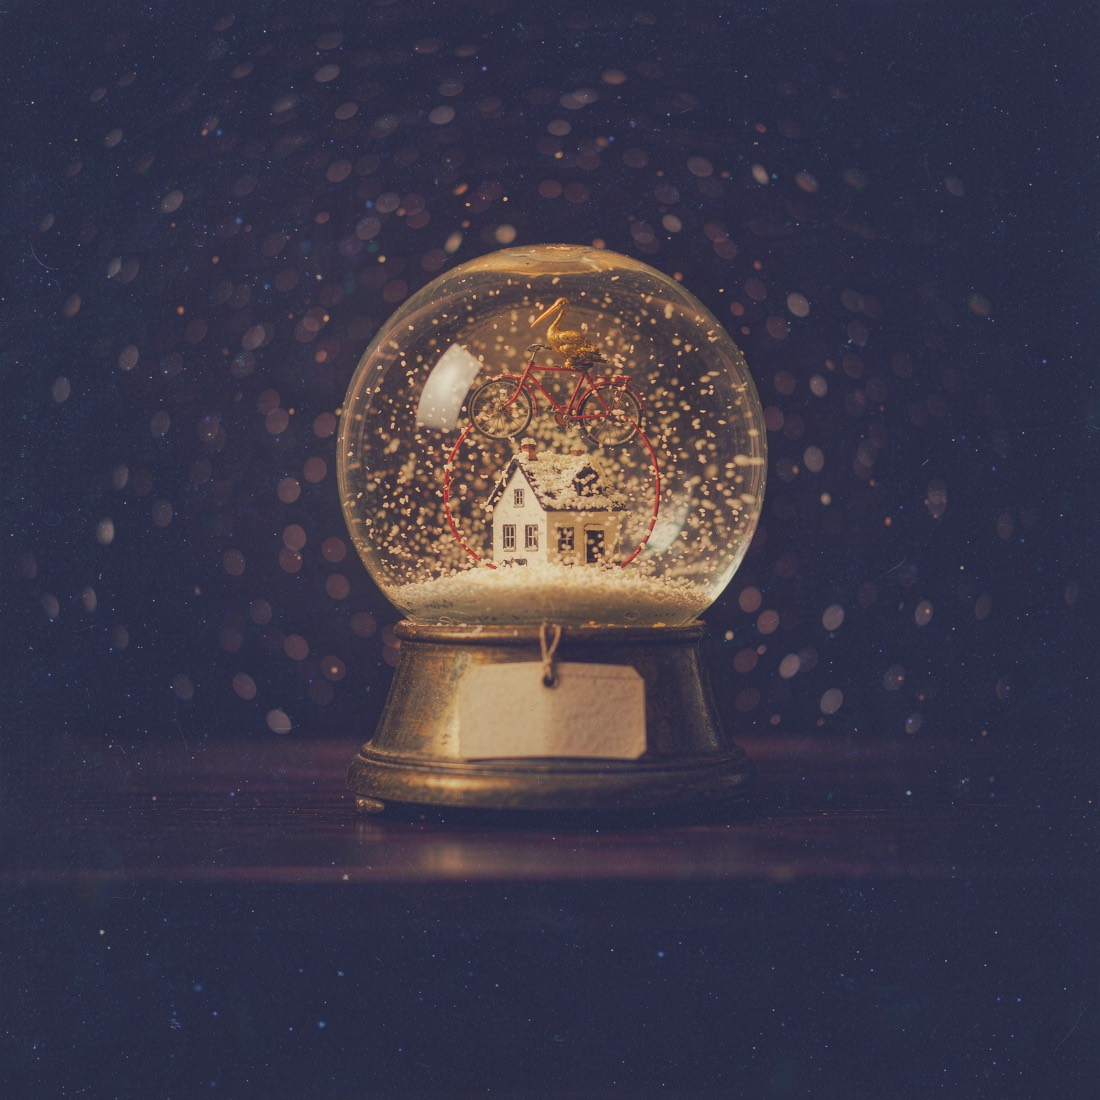
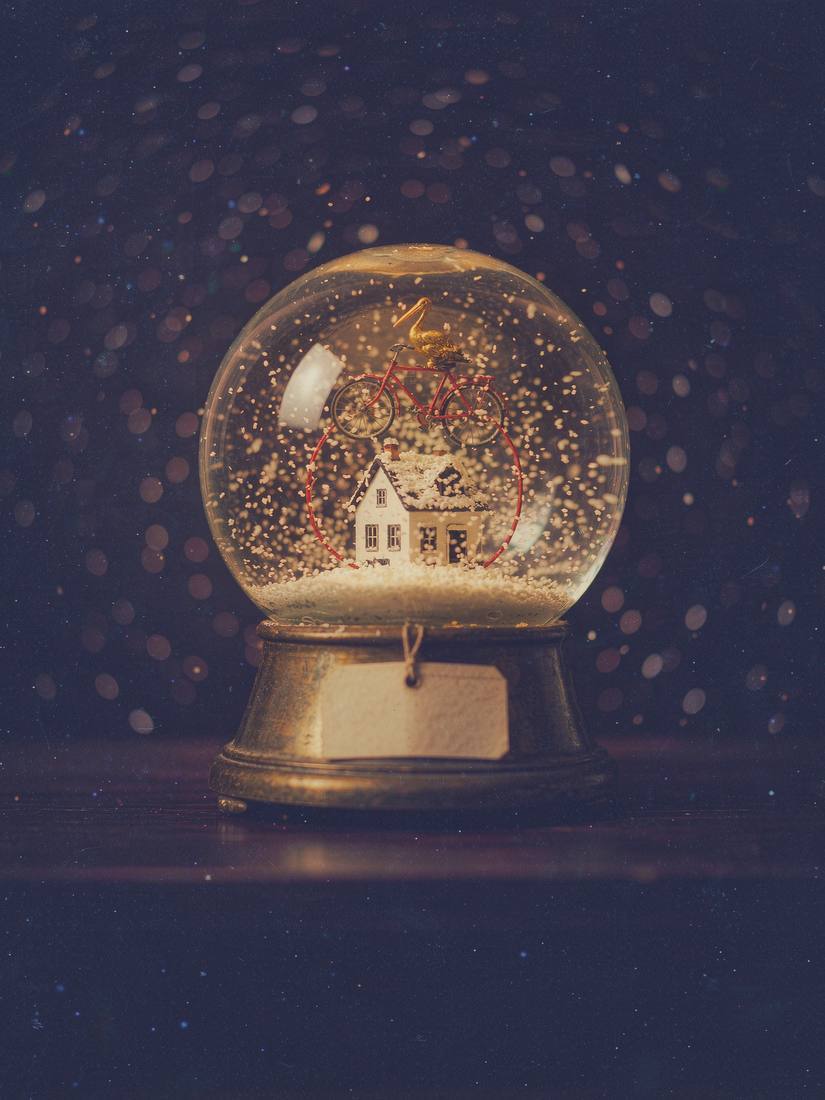
周邊：MK-14、MK-18 裁成直式，十二張統一 3:4
BR-09 是橫式 4:3、BR-13 是方形，十二張商品照裡只有這兩張不是直式，
在格線裡會拉出高低落差。兩張都裁成 825x1100，與其餘十張一致。

- MK-18 雪花球：方形置中裁，雪球完整不變，零損失
- MK-14 紙景：橫式裁 3:4。試過五個偏移，沒有能同時保住兩端的 ——
  牌子在左、車在右，直式必須切一邊。選偏左：保住整塊牌子
  （ENTRY PERMIT REQUIRED / BICYCLES DECLARED: 1 /
  PELICANS DECLARED: 0 是這張的笑點），代價是車只剩半個車輪，
  剛好守住「每張必有鵜鶘或紅色單車」那條規則

因為十二張現在同尺寸，.goods.start 這個原本只為了補橫式／方形圖的
align-items:start 補丁就沒有存在理由了，移掉，第二批跟第一批共用樣式。

商品描述同步：MK-14 那句「桌子旁邊停著那輛車」改成「只露出半個車輪」，
跟裁切後實際看到的對上。

diff --git a/series/merch.html b/series/merch.html
@@ -61,9 +61,6 @@
      彼此不知道對方存在 —— 故意不共用同一個 SVG。歪的、膠帶、歪章是刻意的。 */
   .goods { display:grid; gap:28px 24px;
     grid-template-columns:repeat(auto-fill,minmax(236px,1fr)); }
-  /* 第二批有橫式（紙景）與方形（雪花球）商品，格線要靠上對齊，
-     否則同一列會被最高的那張拉開，卡片底部留出大片空白 */
-  .goods.start { align-items:start; }
   .item { position:relative; margin:0; padding:14px 15px 13px;
     background:#FBF9F3; border:1px solid #DED7C5;
     box-shadow:1px 2px 0 rgba(43,45,51,.05); }
@@ -192,7 +189,7 @@
   is the thing this page is not for. A bird drawn slightly wrong by somebody who saw it once
   is evidence. A bird reproduced exactly, from a document, is a print run.</p>
 </div>
-<div class="goods start" id="goods2"></div>
+<div class="goods" id="goods2"></div>
 <div class="shopnote">
   <p><b>Same terms as the first four.</b> You pay first, then it is made. Each maker needs a
   minimum before the workshop will start, and if that minimum is not reached in
@@ -263,7 +260,7 @@ const GOODS2 = [
     line:'米色帆布上一枚圓章，紅線繡的邊。裡面一隻鵜鶘站在紅色單車上。字沿著圓周縫：THE GOLDEN PELICAN · STILL AT LARGE。右下角有一根線沒藏進布裡。',
     price:'$9', moq:100, paid:74, flag:'EMBROIDERED TO ORDER' },
   { id:'MK-14', img:'MK-14', name:'Desk diorama', by:'紙景師 · 一個房間 一個晚上',
-    line:'一個紙箱挖成的兔子洞入口，裡面有木柵欄、一張桌子、一盞小燈。牆上釘著牌子：ENTRY PERMIT REQUIRED，下面寫 BICYCLES DECLARED: 1、PELICANS DECLARED: 0。桌子旁邊停著那輛車。',
+    line:'一個紙箱挖成的兔子洞入口，裡面有木柵欄、一張桌子、一盞小燈。牆上釘著牌子：ENTRY PERMIT REQUIRED，下面寫 BICYCLES DECLARED: 1、PELICANS DECLARED: 0。桌子旁邊停著那輛車，只露出半個車輪。',
     price:'$95', moq:1, paid:1, flag:'BUILT AFTER YOU PAY' },
   { id:'MK-15', img:'MK-15', name:'Field notebook', by:'文具行 · 另一個人',
     line:'灰色硬皮筆記本。封面貼了一張照片：一隻戴綠色小帽的鵜鶘騎在車上，旁邊有人用原子筆寫 I saw him twice，畫了箭頭指著鳥。照片貼歪了，邊緣翹起來。裡面大部分是空的。',
